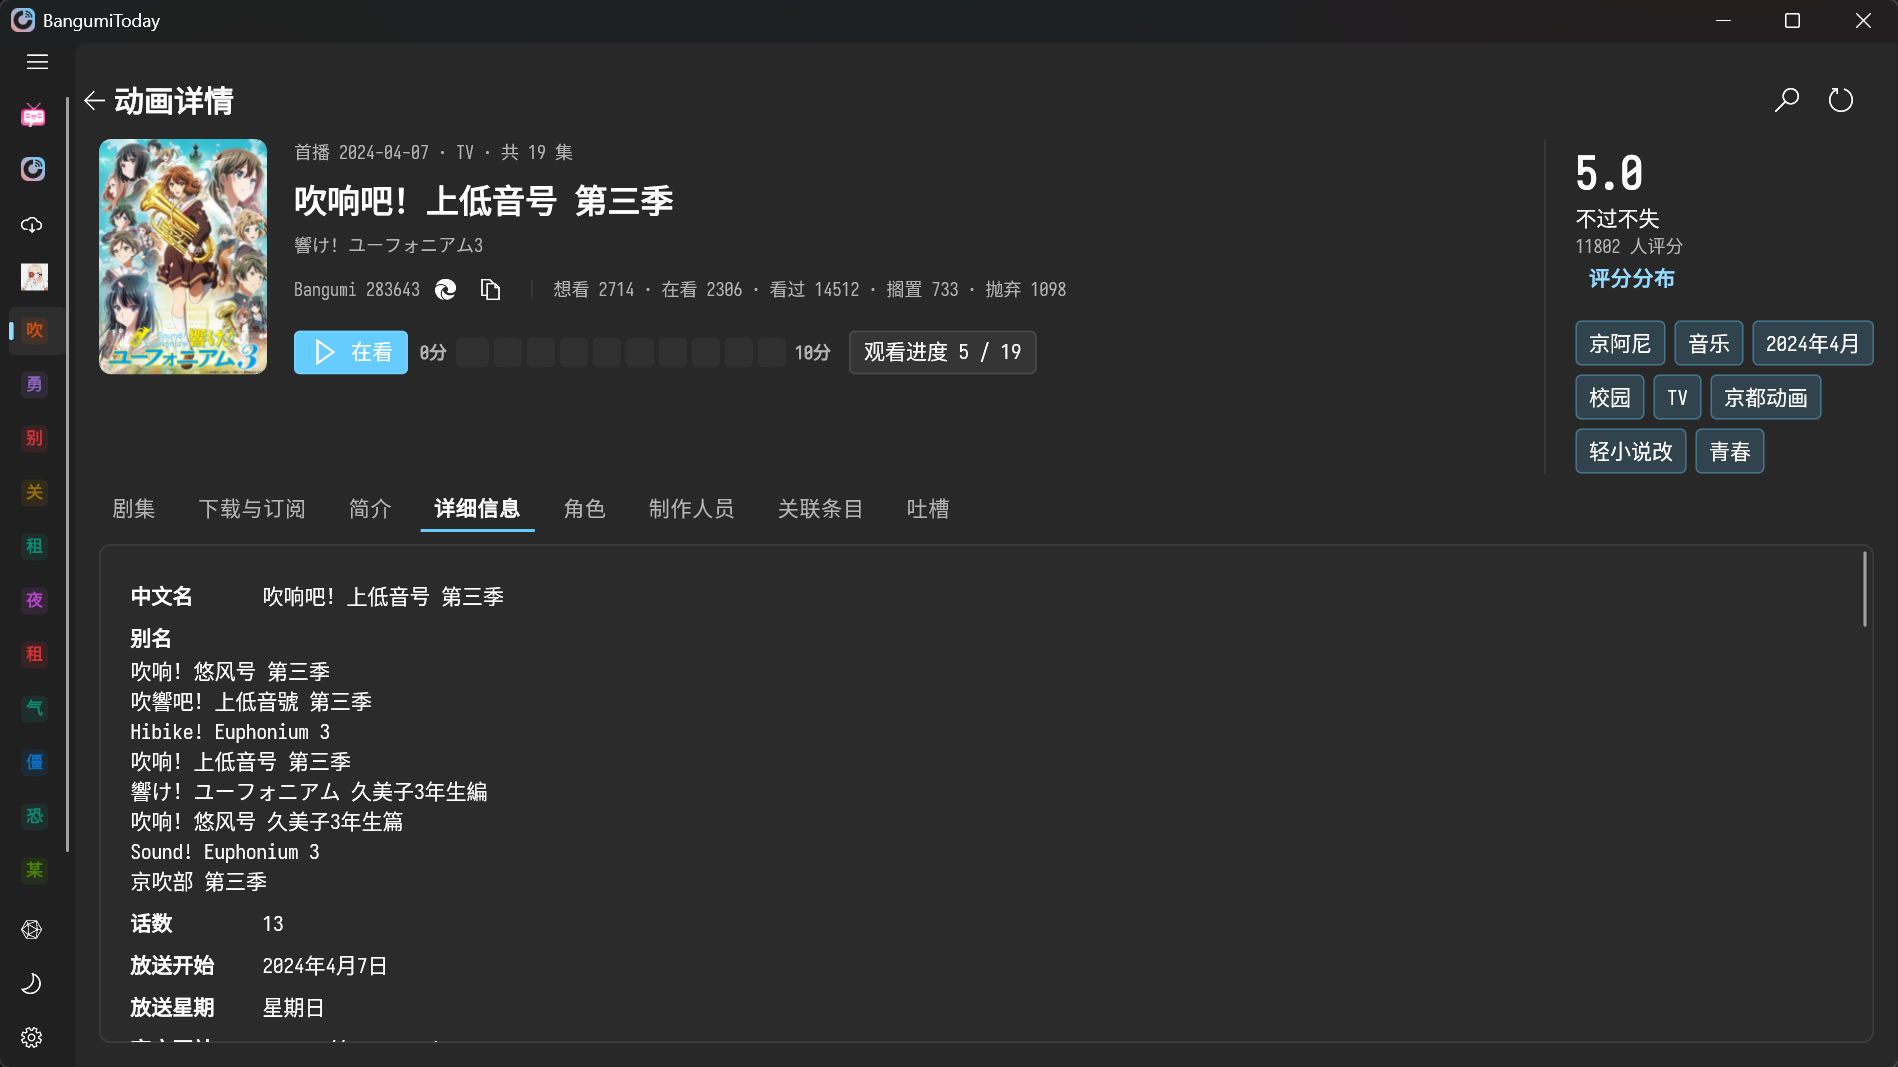
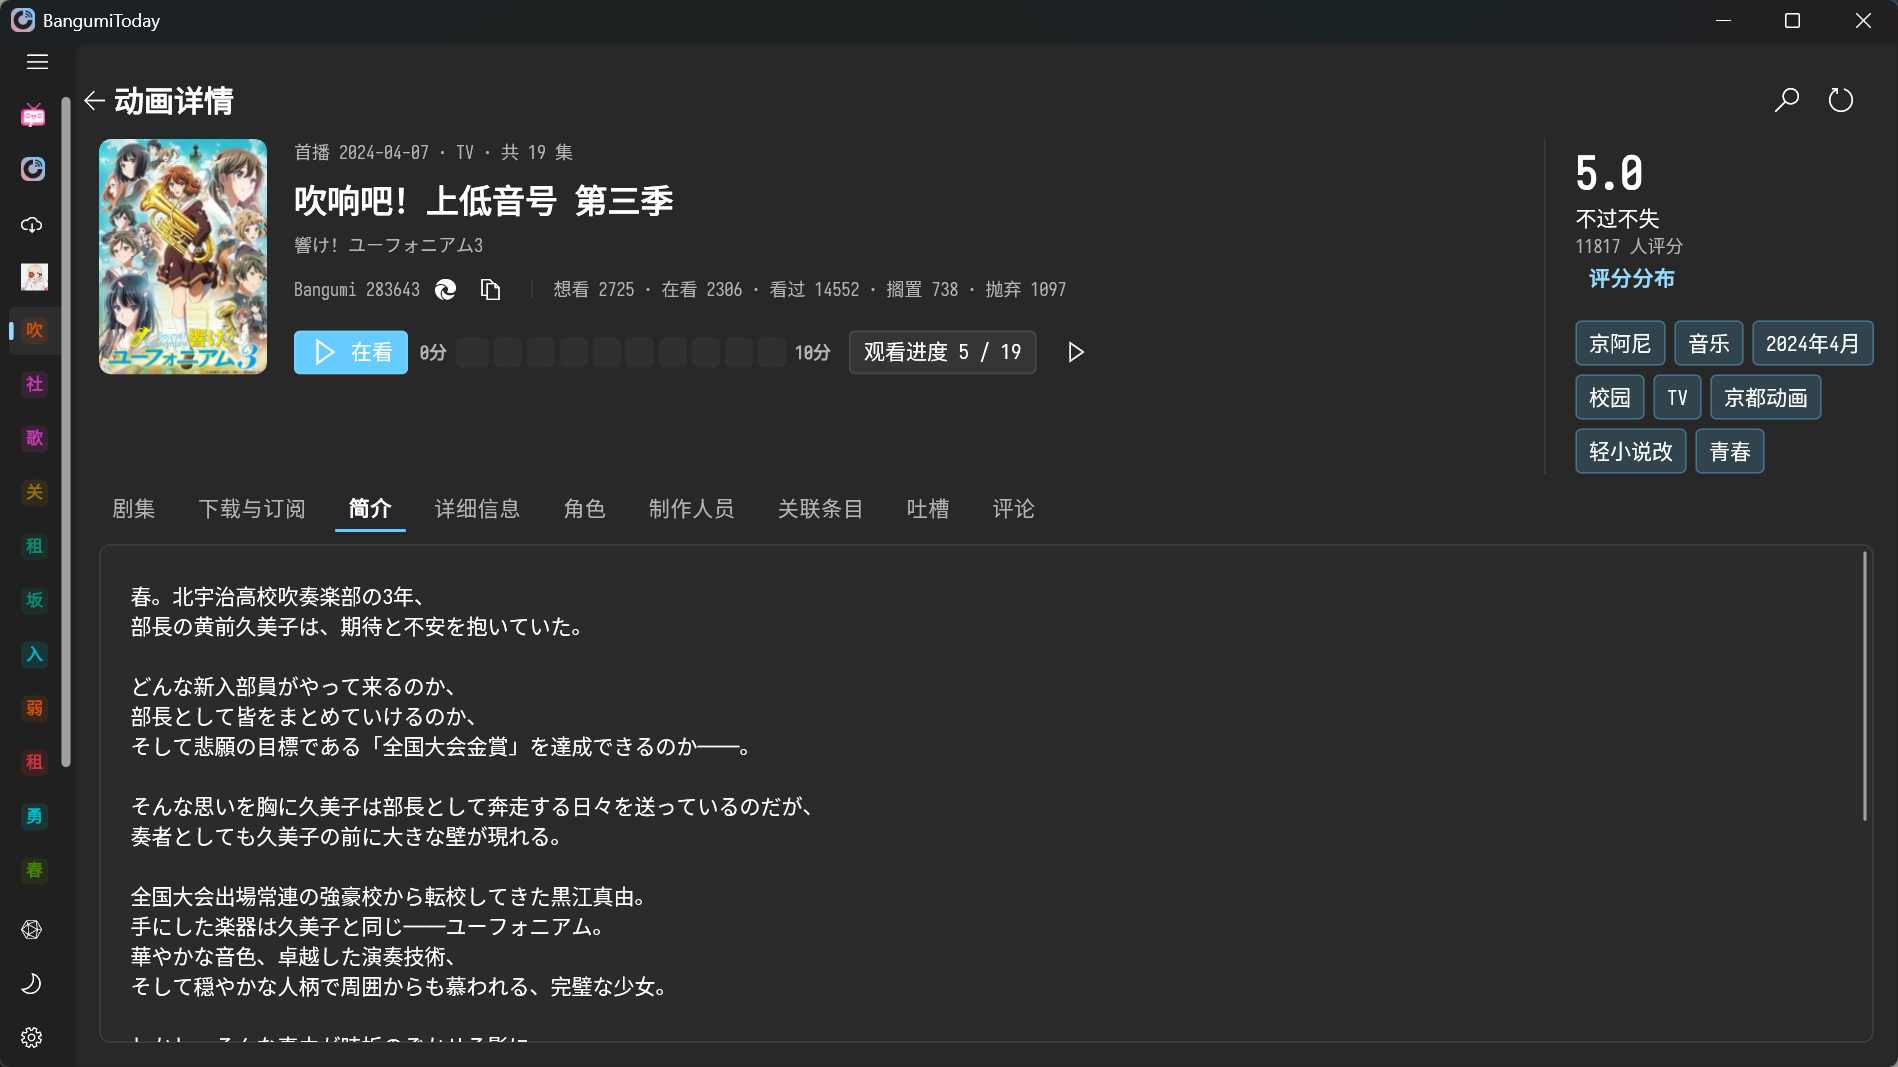
🚀 v1.1.0

diff --git a/CHANGELOG.md b/CHANGELOG.md
@@ -2,12 +2,37 @@
 Author: 目棃
 Description: 更新日志
 Date: 2024-04-17
-Update: 2026-10-12
+Update: 2026-10-16
 ---
 
 > 本文档 [`Frontmatter`](https://github.com/BTMuli/MuCli#Frontmatter) 由 [MuCli](https://github.com/BTMuli/Mucli) 自动生成于 `2024-04-17 17:46:15`
 >
-> 更新于 `2026-10-12 21:03:14`
+> 更新于 `2026-10-16 08:38:25`
+
+## [v1.1.0](https://github.com/BTMuli/BangumiToday/releases/tag/v1.1.0) (2026-10-16)
+
+- ✨ BMF 增加放送状态筛选
+- ✨ 支持手动配置应用代理
+- ✨ 添加条目评论与详情浏览支持
+- ✨ 支持独立配置和管理 Bangumi 镜像
+- 🐛 修复首页收藏状态同步
+- 🐛 修复长地址评论链接的解析
+- 🐛 修复退出时暂停数据库订阅导致的应用无响应
+- 🐛 修复剧集标记过程中的请求异常
+- 🐛 修复连续标记章节时的收藏进度同步冲突
+- 🐛 修复播放器镜像目录的跨引擎解析
+- 🩹 清理日志后移除空日期目录
+- 🩹 修复下载页切换标签时的折叠闪动
+- ⚡ 复用章节匹配数据以加快自动切集
+- ⚡ 减少下载进度更新的重复计算
+- 🚸 调整播放器右键菜单入口
+- 🚸 优化继续播放逻辑，考虑账号观看进度
+- 🚸 优化 TensorRT 编译反馈与取消响应
+- 🚸 优化超分回退提示并支持恢复配置
+- 🚸 登录前提醒授权将跳转主站
+- 💄 剧集评论增加楼层定位链接
+- 💄 优化评论遮挡组件的渲染
+- 🥅 完善 Bangumi 网络错误提示与诊断信息
 
 ## [v1.0.1](https://github.com/BTMuli/BangumiToday/releases/tag/v1.0.1) (2026-10-12)
 
